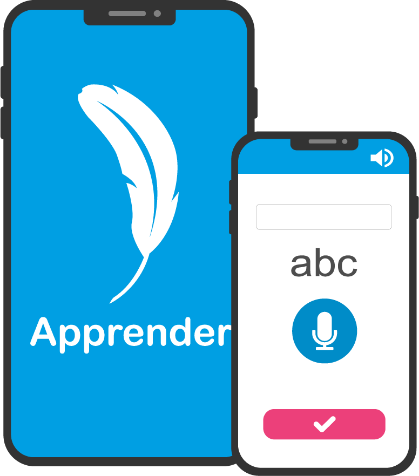
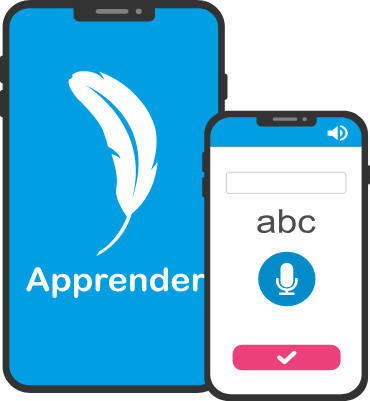
Responsividad terminada
media queries css finalizados
imagenes responsivas incorporadas

diff --git a/build/css/style.min.css b/build/css/style.min.css
@@ -1,1 +1,1 @@
-/*! normalize.css v3.0.2 | MIT License | git.io/normalize * */html{font-family:sans-serif;-ms-text-size-adjust:100%;-webkit-text-size-adjust:100%}body{margin:0;padding:0}article,aside,details,figcaption,figure,footer,header,hgroup,main,menu,nav,section,summary{display:block}audio,canvas,progress,video{display:inline-block;vertical-align:baseline}audio:not([controls]){display:none;height:0}[hidden],template{display:none}a{background-color:transparent}a:active,a:hover{outline:0}abbr[title]{border-bottom:1px dotted}b,strong{font-weight:bold}dfn{font-style:italic}h1{font-size:2em;margin:0.67em 0}mark{background:#ff0;color:#000}small{font-size:80%}sub,sup{font-size:75%;line-height:0;position:relative;vertical-align:baseline}sup{top:-0.5em}sub{bottom:-0.25em}img{border:0}svg:not(:root){overflow:hidden}figure{margin:1em 40px}hr{-moz-box-sizing:content-box;box-sizing:content-box;height:0}pre{overflow:auto}code,kbd,pre,samp{font-family:monospace, monospace;font-size:1em}button,input,optgroup,select,textarea{color:inherit;font:inherit;margin:0}button{overflow:visible}button,select{text-transform:none}button,html input[type="button"],input[type="reset"],input[type="submit"]{-webkit-appearance:button;cursor:pointer}button[disabled],html input[disabled]{cursor:default}button::-moz-focus-inner,input::-moz-focus-inner{border:0;padding:0}input{line-height:normal}input[type="checkbox"],input[type="radio"]{box-sizing:border-box;padding:0}input[type="number"]::-webkit-inner-spin-button,input[type="number"]::-webkit-outer-spin-button{height:auto}input[type="search"]{-webkit-appearance:textfield;-moz-box-sizing:content-box;-webkit-box-sizing:content-box;box-sizing:content-box}input[type="search"]::-webkit-search-cancel-button,input[type="search"]::-webkit-search-decoration{-webkit-appearance:none}fieldset{border:1px solid #c0c0c0;margin:0 2px;padding:0.35em 0.625em 0.75em}legend{border:0;padding:0}textarea{overflow:auto}optgroup{font-weight:bold}table{border-collapse:collapse;border-spacing:0}td,th{padding:0}html{box-sizing:border-box;height:100%}*,*:before,*:after{box-sizing:inherit}body{background:white;font-family:"Roboto",sans-serif;height:100%}section{display:-webkit-box}.wrapper{width:100%;max-width:1100px;margin:0 auto}#header{background:url("../img/header_img.jpg") no-repeat;background-size:cover;height:700px;color:white;text-align:center}@media only screen and (max-width: 625px){#header{height:550px}}#header article{width:60%;margin:0 auto;margin-top:160px}@media only screen and (max-width: 625px){#header article{width:90%;margin-top:100px}}#header article h1{font-size:40px}@media only screen and (max-width: 625px){#header article h1{font-size:30px}}#header article p{font-size:21px;line-height:160%}.main-nav{display:flex;margin-top:10px}.main-nav li{list-style:none}.main-nav li:first-child{margin-right:auto}.main-nav a{color:white;display:block;text-decoration:none;border-radius:20px;padding:8px 20px;transition:all 0.2s ease}.main-nav a:hover,.main-nav a:active{color:#EC407A}a.contact-button{border:2px;border-color:white;border-style:solid;transition:all 0.2s ease}a.contact-button:hover{outline:0;background:#008CC8;color:white}#description-body{background:white;color:#42474A}#description-body h1{text-align:center;color:#42474A}.description-content{display:flex;align-items:center;justify-content:center;margin-top:60px}@media only screen and (max-width: 625px){.description-content{display:block}}.description-content img{display:block;margin:auto}.description-content .description-item{width:40%;margin:0 auto}@media only screen and (max-width: 625px){.description-content .description-item{width:90%;text-align:center}}.description-content .description-item p{font-size:18px;line-height:150%}.interface-content{display:flex;align-items:center;justify-content:center;margin-top:100px}@media only screen and (max-width: 625px){.interface-content{display:block}}.interface-content .interface-item{width:42%;margin:0 auto}@media only screen and (max-width: 625px){.interface-content .interface-item{width:90%;text-align:center;padding:40px 0}}.interface-content .interface-item img{display:block;margin:auto}.interface-content .interface-item p{font-size:18px;line-height:150%}#team-description{background:url("../img/team_bakground.jpg") no-repeat;background-size:cover;color:white;text-align:center;height:392px;padding:65px;margin-top:80px}@media only screen and (max-width: 625px){#team-description{padding:42px;height:286px;background-position:center}}#team-description h1{text-transform:uppercase;font-size:40px}@media only screen and (max-width: 625px){#team-description h1{font-size:30px}}#team-description p{width:100%;max-width:700px;margin:0 auto;font-size:21px;line-height:160%}@media only screen and (max-width: 625px){#team-description p{font-size:18px}}#profile-section{background:white;text-align:center;color:#42474A;padding:120px;line-height:50%}@media only screen and (max-width: 625px){#profile-section{padding:80px}}.profile-block{display:grid;grid-template-columns:repeat(3, auto)}@media only screen and (max-width: 900px){.profile-block{grid-template-columns:repeat(1, auto)}}.profile-block div{margin:0 auto}@media only screen and (max-width: 625px){.profile-block div{padding:20px}}.profile-block div p{line-height:18px}.radius-img{border-radius:600px;width:240px;height:240px}#mision-description{background:url(../img/mision_img.jpg) no-repeat;background-size:cover;height:695px;color:white;text-align:center;padding:200px 80px}@media only screen and (max-width: 625px){#mision-description{height:492px;background-position:right;padding:95px 10px}}#mision-description h1{font-size:40px}@media only screen and (max-width: 625px){#mision-description h1{font-size:30px}}#mision-description p{font-size:21px;line-height:160%;width:100%;max-width:900px;margin:0 auto}@media only screen and (max-width: 625px){#mision-description p{font-size:18px}}#contact-form{text-align:center;color:#42474A}.form-contact{width:600px;margin:0 auto}@media only screen and (max-width: 625px){.form-contact{width:400px}}.input-block{padding:10px}input{width:100%;height:40px;border-radius:7px;border:1px solid #B1B1B1;padding:5px;transition:border .1s ease-in}input:focus{border:2px solid #008CC8}label{float:left}textarea{width:100%;border-radius:7px;border:1px solid #B1B1B1;padding:5px;transition:border 0.2s ease}textarea:focus{border:1px solid #008CC8}button{width:180px;height:45px;color:white;font-size:20px;background:#EC407A;border-radius:20px;border:none;margin:0 auto;transition:all 0.2s ease;box-shadow:0 20px 12px -15px rgba(0,0,0,0.5)}button:hover{outline:0;transform:translateY(3px);background:#008CC8}#footer{width:100%;height:280px;text-align:center;margin-top:60px;background:#6c7b81;background:linear-gradient(77deg, #6c7b81 0%, #363e41 80%);color:white}#footer .social-block{padding:20px}#footer p:first-child{font-size:20px;padding:10px}#footer img{padding:0 20px}
+/*! normalize.css v3.0.2 | MIT License | git.io/normalize * */html{font-family:sans-serif;-ms-text-size-adjust:100%;-webkit-text-size-adjust:100%}body{margin:0;padding:0}article,aside,details,figcaption,figure,footer,header,hgroup,main,menu,nav,section,summary{display:block}audio,canvas,progress,video{display:inline-block;vertical-align:baseline}audio:not([controls]){display:none;height:0}[hidden],template{display:none}a{background-color:transparent}a:active,a:hover{outline:0}abbr[title]{border-bottom:1px dotted}b,strong{font-weight:bold}dfn{font-style:italic}h1{font-size:2em;margin:0.67em 0}mark{background:#ff0;color:#000}small{font-size:80%}sub,sup{font-size:75%;line-height:0;position:relative;vertical-align:baseline}sup{top:-0.5em}sub{bottom:-0.25em}img{border:0}svg:not(:root){overflow:hidden}figure{margin:1em 40px}hr{-moz-box-sizing:content-box;box-sizing:content-box;height:0}pre{overflow:auto}code,kbd,pre,samp{font-family:monospace, monospace;font-size:1em}button,input,optgroup,select,textarea{color:inherit;font:inherit;margin:0}button{overflow:visible}button,select{text-transform:none}button,html input[type="button"],input[type="reset"],input[type="submit"]{-webkit-appearance:button;cursor:pointer}button[disabled],html input[disabled]{cursor:default}button::-moz-focus-inner,input::-moz-focus-inner{border:0;padding:0}input{line-height:normal}input[type="checkbox"],input[type="radio"]{box-sizing:border-box;padding:0}input[type="number"]::-webkit-inner-spin-button,input[type="number"]::-webkit-outer-spin-button{height:auto}input[type="search"]{-webkit-appearance:textfield;-moz-box-sizing:content-box;-webkit-box-sizing:content-box;box-sizing:content-box}input[type="search"]::-webkit-search-cancel-button,input[type="search"]::-webkit-search-decoration{-webkit-appearance:none}fieldset{border:1px solid #c0c0c0;margin:0 2px;padding:0.35em 0.625em 0.75em}legend{border:0;padding:0}textarea{overflow:auto}optgroup{font-weight:bold}table{border-collapse:collapse;border-spacing:0}td,th{padding:0}html{box-sizing:border-box;height:100%}*,*:before,*:after{box-sizing:inherit}body{background:white;font-family:"Roboto",sans-serif;height:100%}section{display:-webkit-box}.wrapper{width:100%;max-width:1100px;margin:0 auto}#header{background:url("../img/header_img.jpg") no-repeat;background-size:cover;height:700px;color:white;text-align:center}@media only screen and (max-width: 770px){#header{background:url("../img/header_img_small.jpg") no-repeat}}#header article{width:60%;margin:0 auto;margin-top:160px}@media only screen and (max-width: 770px){#header article{width:90%;margin-top:150px}}@media only screen and (max-width: 770px){#header article{margin-top:120px}}#header article h1{font-size:40px}@media only screen and (max-width: 600px){#header article h1{font-size:30px}}#header article p{font-size:21px;line-height:160%}.main-nav{display:flex;margin-top:10px}.main-nav li{list-style:none}.main-nav li:first-child{margin-right:auto}.main-nav a{color:white;display:block;text-decoration:none;border-radius:20px;padding:8px 20px;transition:all 0.2s ease}.main-nav a:hover,.main-nav a:active{color:#EC407A}a.contact-button{border:2px;border-color:white;border-style:solid;transition:all 0.2s ease}a.contact-button:hover{outline:0;background:#008CC8;color:white}#description-body{background:white;color:#42474A}#description-body h1{text-align:center;color:#42474A}.description-content{display:flex;align-items:center;justify-content:center;margin-top:60px}@media only screen and (max-width: 770px){.description-content{display:block}}.description-content img{display:block;margin:auto}.description-content .description-item{width:40%;margin:20px}@media only screen and (max-width: 770px){.description-content .description-item{width:90%;text-align:center;margin:0 auto;padding:10px 0}}.description-content .description-item p{font-size:18px;line-height:150%}.interface-content{display:flex;align-items:center;justify-content:center;margin-top:100px}@media only screen and (max-width: 770px){.interface-content{display:block;margin-top:30px}}.interface-content .interface-item{width:42%;margin:0 auto}@media only screen and (max-width: 770px){.interface-content .interface-item{width:90%;text-align:center;padding:40px 0}}.interface-content .interface-item img{display:block;margin:auto}.interface-content .interface-item p{font-size:18px;line-height:150%}#team-description{background:url("../img/team_background.jpg") no-repeat;background-size:cover;color:white;text-align:center;height:392px;padding:65px;margin-top:80px}@media only screen and (max-width: 770px){#team-description{background:url("../img/team_background_small.jpg") no-repeat;background-position:center;margin-top:50px}}@media only screen and (max-width: 400px){#team-description{padding:65px 25px}}#team-description h1{text-transform:uppercase;font-size:40px}@media only screen and (max-width: 600px){#team-description h1{font-size:30px}}#team-description p{width:100%;max-width:700px;margin:0 auto;font-size:21px;line-height:160%}@media only screen and (max-width: 600px){#team-description p{font-size:18px}}#profile-section{background:white;text-align:center;color:#42474A;padding:120px 0;line-height:50%}@media only screen and (max-width: 600px){#profile-section{padding:50px 0}}.profile-block{display:grid;grid-template-columns:repeat(3, auto)}@media only screen and (max-width: 900px){.profile-block{grid-template-columns:repeat(1, auto)}}.profile-block div{margin:0 auto}@media only screen and (max-width: 900px){.profile-block div{padding:20px}}.profile-block div p{line-height:18px}.radius-img{border-radius:600px;width:240px;height:240px}@media only screen and (max-width: 600px){.radius-img{width:190px;height:190px}}#mision-description{background:url(../img/mision_img.jpg) no-repeat;background-size:cover;height:695px;color:white;text-align:center;padding:200px 80px}@media only screen and (max-width: 770px){#mision-description{background:url(../img/mision_img_small.jpg) no-repeat;background-position:center;padding:170px 30px}}#mision-description h1{font-size:40px}@media only screen and (max-width: 600px){#mision-description h1{font-size:30px}}#mision-description p{font-size:21px;line-height:160%;width:100%;max-width:900px;margin:0 auto}@media only screen and (max-width: 600px){#mision-description p{font-size:18px}}#contact-form{text-align:center;color:#42474A}.form-contact{width:600px;margin:0 auto}@media only screen and (max-width: 600px){.form-contact{width:400px}}@media only screen and (max-width: 450px){.form-contact{width:290px}}.input-block{padding:10px}input{width:100%;height:40px;border-radius:7px;border:1px solid #B1B1B1;padding:5px;transition:border .1s ease-in}input:focus{border:2px solid #008CC8}label{float:left}textarea{width:100%;border-radius:7px;border:1px solid #B1B1B1;padding:5px;transition:border 0.2s ease}textarea:focus{border:1px solid #008CC8}button{width:180px;height:45px;color:white;font-size:20px;background:#EC407A;border-radius:20px;border:none;margin:0 auto;transition:all 0.2s ease;box-shadow:0 20px 12px -15px rgba(0,0,0,0.5)}button:hover{outline:0;transform:translateY(3px);background:#008CC8}#footer{width:100%;height:280px;text-align:center;margin-top:60px;background:#6c7b81;background:linear-gradient(77deg, #6c7b81 0%, #363e41 80%);color:white}#footer .social-block{padding:20px}#footer p:first-child{font-size:20px;padding:10px}#footer img{padding:0 20px}

diff --git a/build/index.html b/build/index.html
@@ -80,9 +80,12 @@
 
     <section id="description-body">
         <div class="wrapper">
-            <h1>Nuestra solución</h1>
-            <div class="description-content">
-                <img src="img/mobile_picture.png" alt="Imagen de app en dispositivo">
+            <h1>Tecnología para la educación</h1>
+            <div class="description-content">                
+                <picture>
+                    <source media="(max-width: 600px)" srcset="img/mobile_picture_small.png">
+                    <img src="img/mobile_picture.png" alt="aplicacion apprender">
+                </picture>
                 <div class="description-item">
                     <h2>Aplicación móvil para la enseñanza de la lectura y escritura</h2>
                     <p>Nuestra aplicación funcionara bajo el sistema
@@ -94,7 +97,10 @@
             </div>
             <div class="interface-content">                               
                 <div class="interface-item">
-                    <img src="img/mic_voice_img.png" alt="Imagen de app en dispositivo">
+                    <picture>
+                        <source media="(max-width: 600px)" srcset="img/mic_voice_img_small.png">
+                        <img src="img/mic_voice_img.png" alt="reconocimiento de voz">
+                    </picture>                   
                     <h2>Interfaz adaptada para el tipo de usuario</h2>
                     <p>Los comandos e instrucciones de voz guiarán al 
                         usuario a través del contenido pedagógico, y 
@@ -103,7 +109,7 @@
                     </p>
                 </div>
                 <div class="interface-item">
-                    <img src="img/levels_img.png" alt="Imagen de app en dispositivo">
+                    <img src="img/levels_img.png" alt="Jugabilidad con niveles">
                     <h2>Jugabilidad y retos atreves de niveles</h2>
                     <p>El usuario ira navegando y aprendiendo atreves 
                         del contenido superando niveles de dificultad 

diff --git a/source/sass/2-layouts/_description-body.sass b/source/sass/2-layouts/_description-body.sass
@@ -12,7 +12,7 @@
     justify-content: center
     margin-top: 60px
 
-    @media only screen and (max-width: 625px)
+    @media only screen and (max-width: 770px)
         display: block
 
     img
@@ -21,10 +21,12 @@
 
     .description-item
         width: 40%
-        margin: 0 auto
-        @media only screen and (max-width: 625px)
+        margin: 20px
+        @media only screen and (max-width: 770px)
             width: 90%
             text-align: center
+            margin: 0 auto
+            padding: 10px 0
 
         p
             font-size: 18px
@@ -36,13 +38,14 @@
     align-items: center
     justify-content: center
     margin-top: 100px
-    @media only screen and (max-width: 625px)
+    @media only screen and (max-width: 770px)
         display: block
+        margin-top: 30px
 
     .interface-item
         width: 42%
         margin: 0 auto
-        @media only screen and (max-width: 625px)
+        @media only screen and (max-width: 770px)
             width: 90%
             text-align: center
             padding: 40px 0

diff --git a/source/sass/2-layouts/_team-description.sass b/source/sass/2-layouts/_team-description.sass
@@ -1,5 +1,5 @@
 #team-description
-    background: url("../img/team_bakground.jpg") no-repeat
+    background: url("../img/team_background.jpg") no-repeat
     background-size: cover
     color: white
     text-align: center
@@ -7,16 +7,19 @@
     padding: 65px
     margin-top: 80px
 
-    @media only screen and (max-width: 625px)
-        padding: 42px
-        height: 286px
+    @media only screen and (max-width: 770px)
+        background: url("../img/team_background_small.jpg") no-repeat
         background-position: center
+        margin-top: 50px
+    
+    @media only screen and (max-width: 400px)
+        padding: 65px 25px
 
     h1
         text-transform: uppercase
         font-size: 40px
 
-        @media only screen and (max-width: 625px)
+        @media only screen and (max-width: 600px)
             font-size: 30px
     
     p
@@ -26,5 +29,5 @@
         font-size: 21px
         line-height: 160%
 
-        @media only screen and (max-width: 625px)
+        @media only screen and (max-width: 600px)
             font-size: 18px

diff --git a/source/sass/2-layouts/_header.sass b/source/sass/2-layouts/_header.sass
@@ -5,21 +5,23 @@
     color: white
     text-align: center
 
-    @media only screen and (max-width: 625px)
-        height: 550px
-    
+    @media only screen and (max-width: 770px)
+        background: url("../img/header_img_small.jpg") no-repeat
 
     article
         width: 60%
         margin: 0 auto
         margin-top: 160px
 
-        @media only screen and (max-width: 625px)
+        @media only screen and (max-width: 770px)
             width: 90%
-            margin-top: 100px
+            margin-top: 150px
+        
+        @media only screen and (max-width: 770px)
+            margin-top: 120px
         h1
             font-size: 40px
-            @media only screen and (max-width: 625px)
+            @media only screen and (max-width: 600px)
                 font-size: 30px
         p
             font-size: 21px

diff --git a/source/sass/2-layouts/_profile-section.sass b/source/sass/2-layouts/_profile-section.sass
@@ -2,12 +2,12 @@
     background: white
     text-align: center
     color: $title-text-color
-    padding: 120px
+    padding: 120px 0
     line-height: 50%
 
-    @media only screen and (max-width: 625px)
-        padding: 80px
-
+    @media only screen and (max-width: 600px)
+        padding: 50px 0
+        
 .profile-block
     display: grid
     grid-template-columns: repeat(3, auto)
@@ -17,7 +17,7 @@
     
     div
         margin: 0 auto
-        @media only screen and (max-width: 625px)
+        @media only screen and (max-width: 900px)
             padding: 20px
         
         p
@@ -28,3 +28,7 @@
     border-radius: 600px
     width: 240px
     height: 240px
+
+    @media only screen and (max-width: 600px)
+        width: 190px
+        height: 190px

diff --git a/source/sass/2-layouts/_mision-description.sass b/source/sass/2-layouts/_mision-description.sass
@@ -6,15 +6,15 @@
     text-align: center
     padding: 200px 80px
 
-    @media only screen and (max-width: 625px)
-        height: 492px
-        background-position: right
-        padding: 95px 10px
+    @media only screen and (max-width: 770px)
+        background: url(../img/mision_img_small.jpg) no-repeat
+        background-position: center
+        padding: 170px 30px
 
     h1
         font-size: 40px
 
-        @media only screen and (max-width: 625px)
+        @media only screen and (max-width: 600px)
             font-size: 30px
 
     p
@@ -24,5 +24,5 @@
         max-width: 900px
         margin: 0 auto
 
-        @media only screen and (max-width: 625px)
+        @media only screen and (max-width: 600px)
             font-size: 18px

diff --git a/source/sass/2-layouts/_contact-form.sass b/source/sass/2-layouts/_contact-form.sass
@@ -6,8 +6,11 @@
     width: 600px
     margin: 0 auto
 
-    @media only screen and (max-width: 625px)
+    @media only screen and (max-width: 600px)
         width: 400px
+    
+    @media only screen and (max-width: 450px)
+        width: 290px
     
 .input-block 
     padding: 10px
